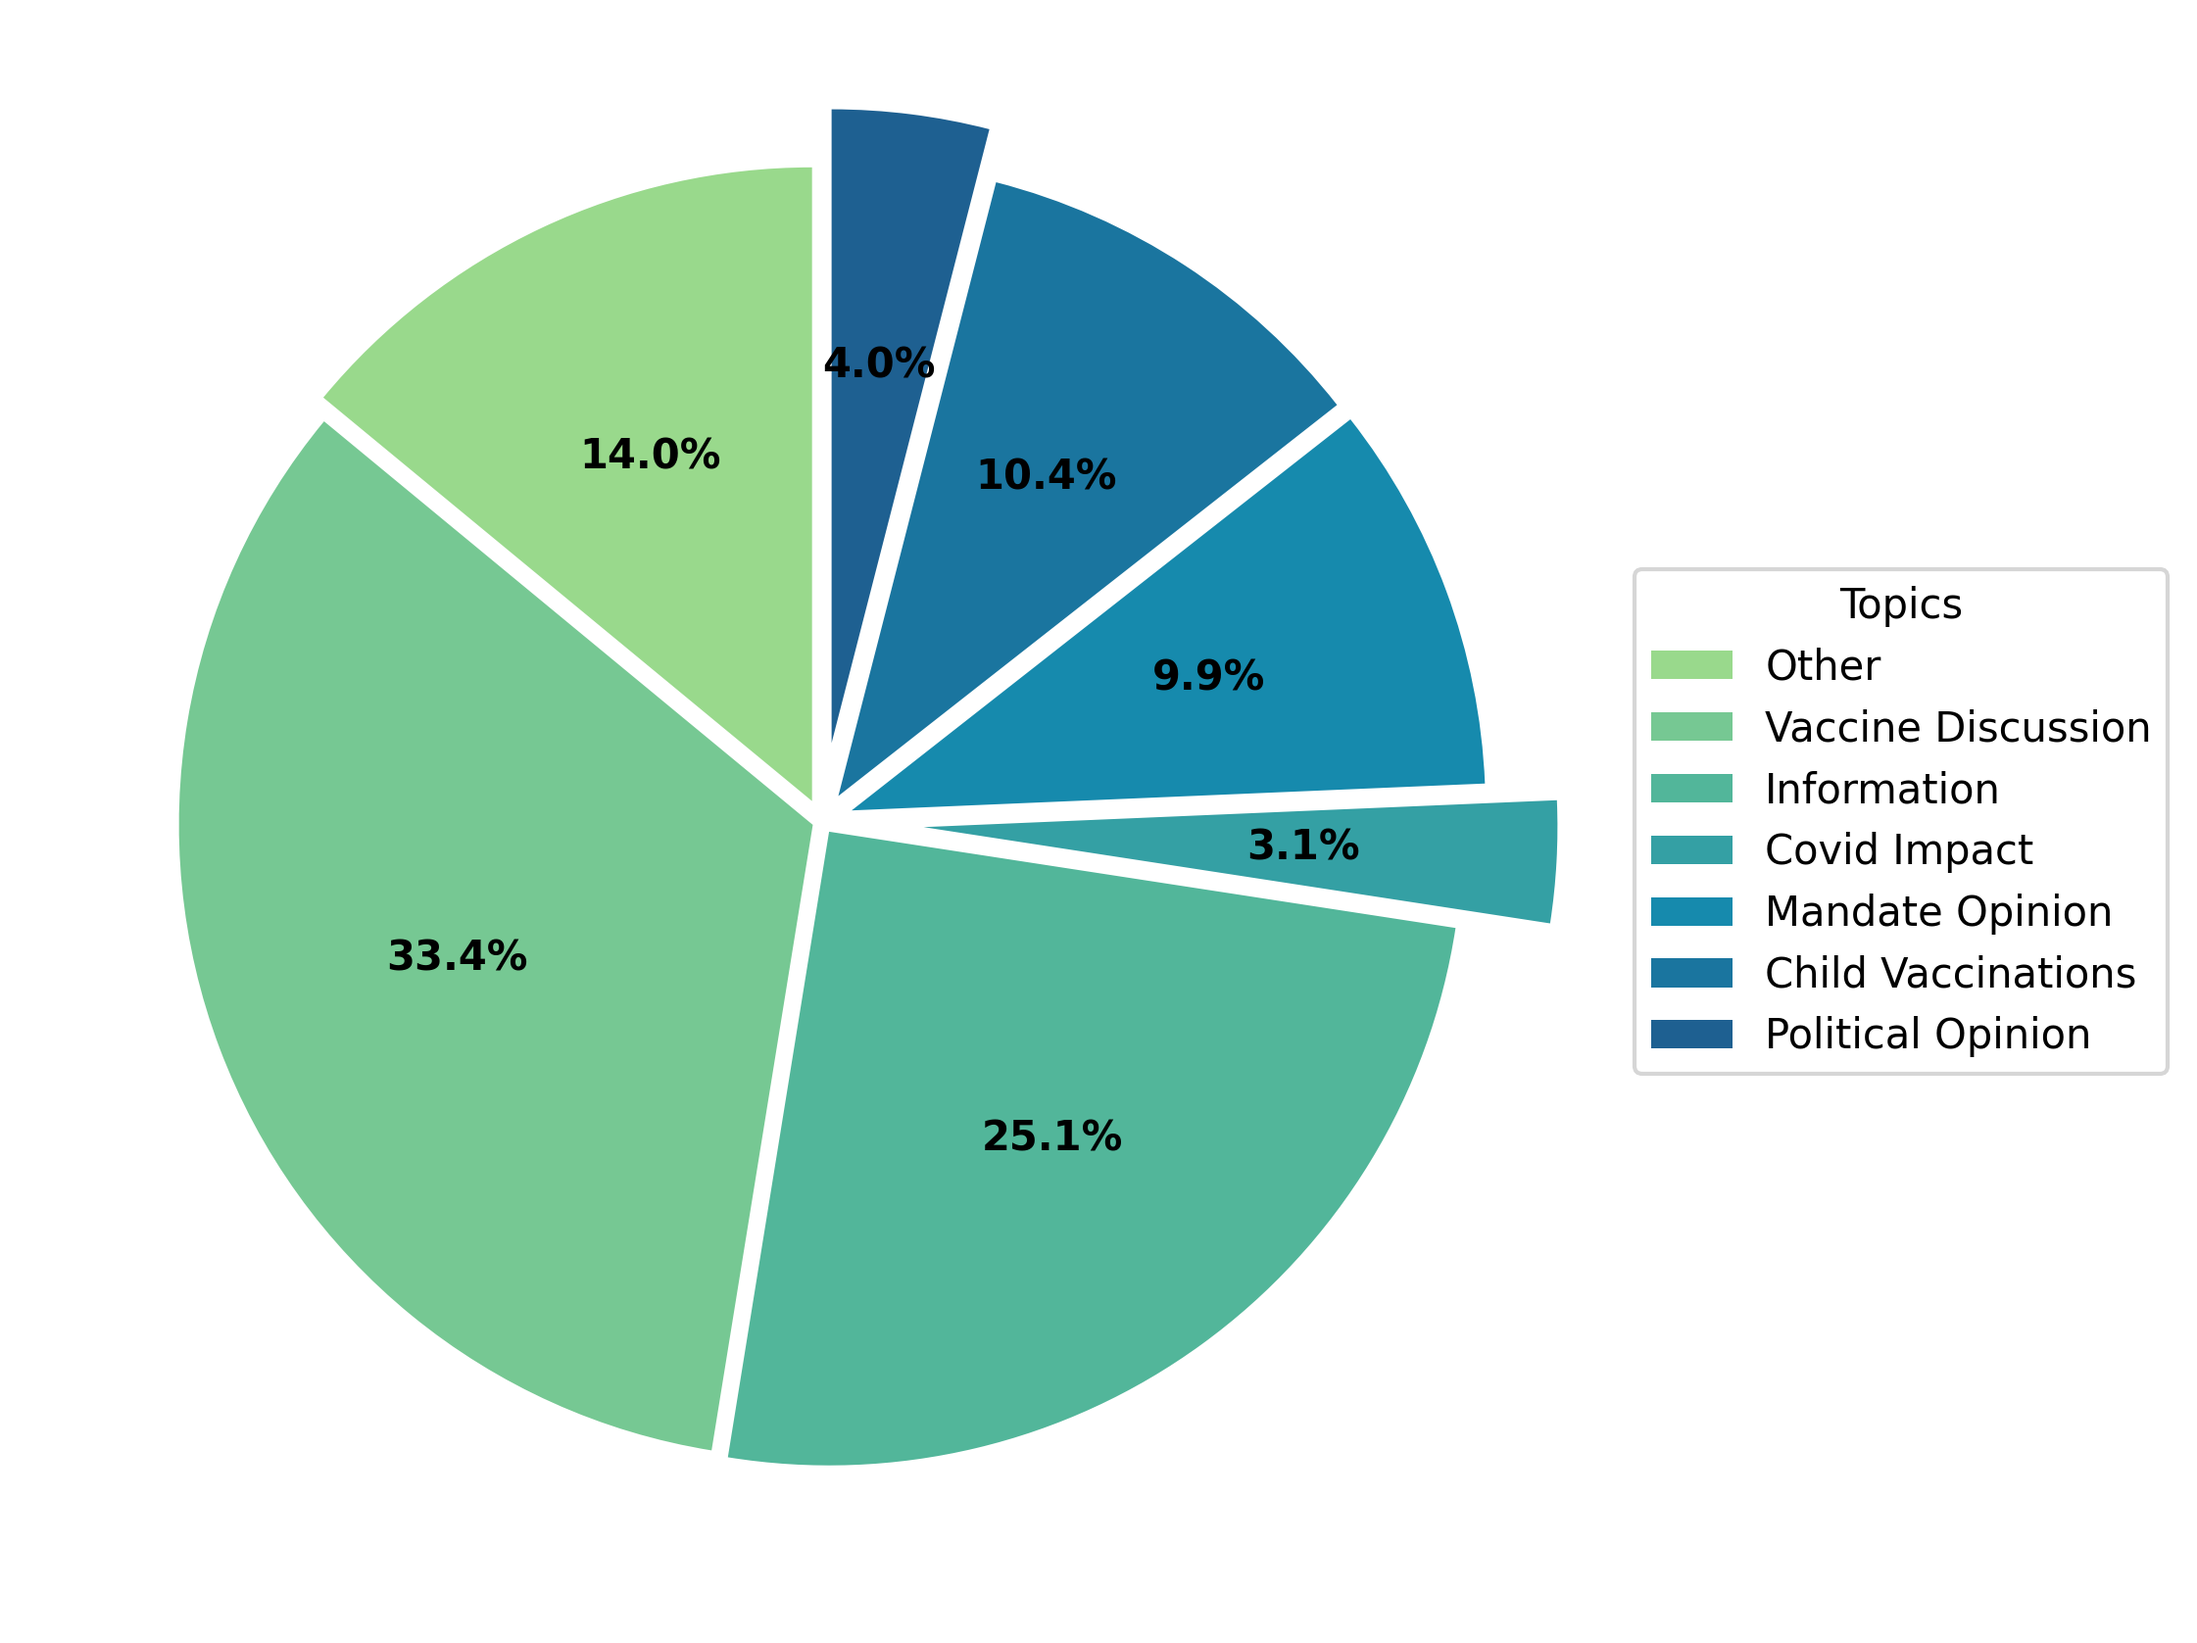
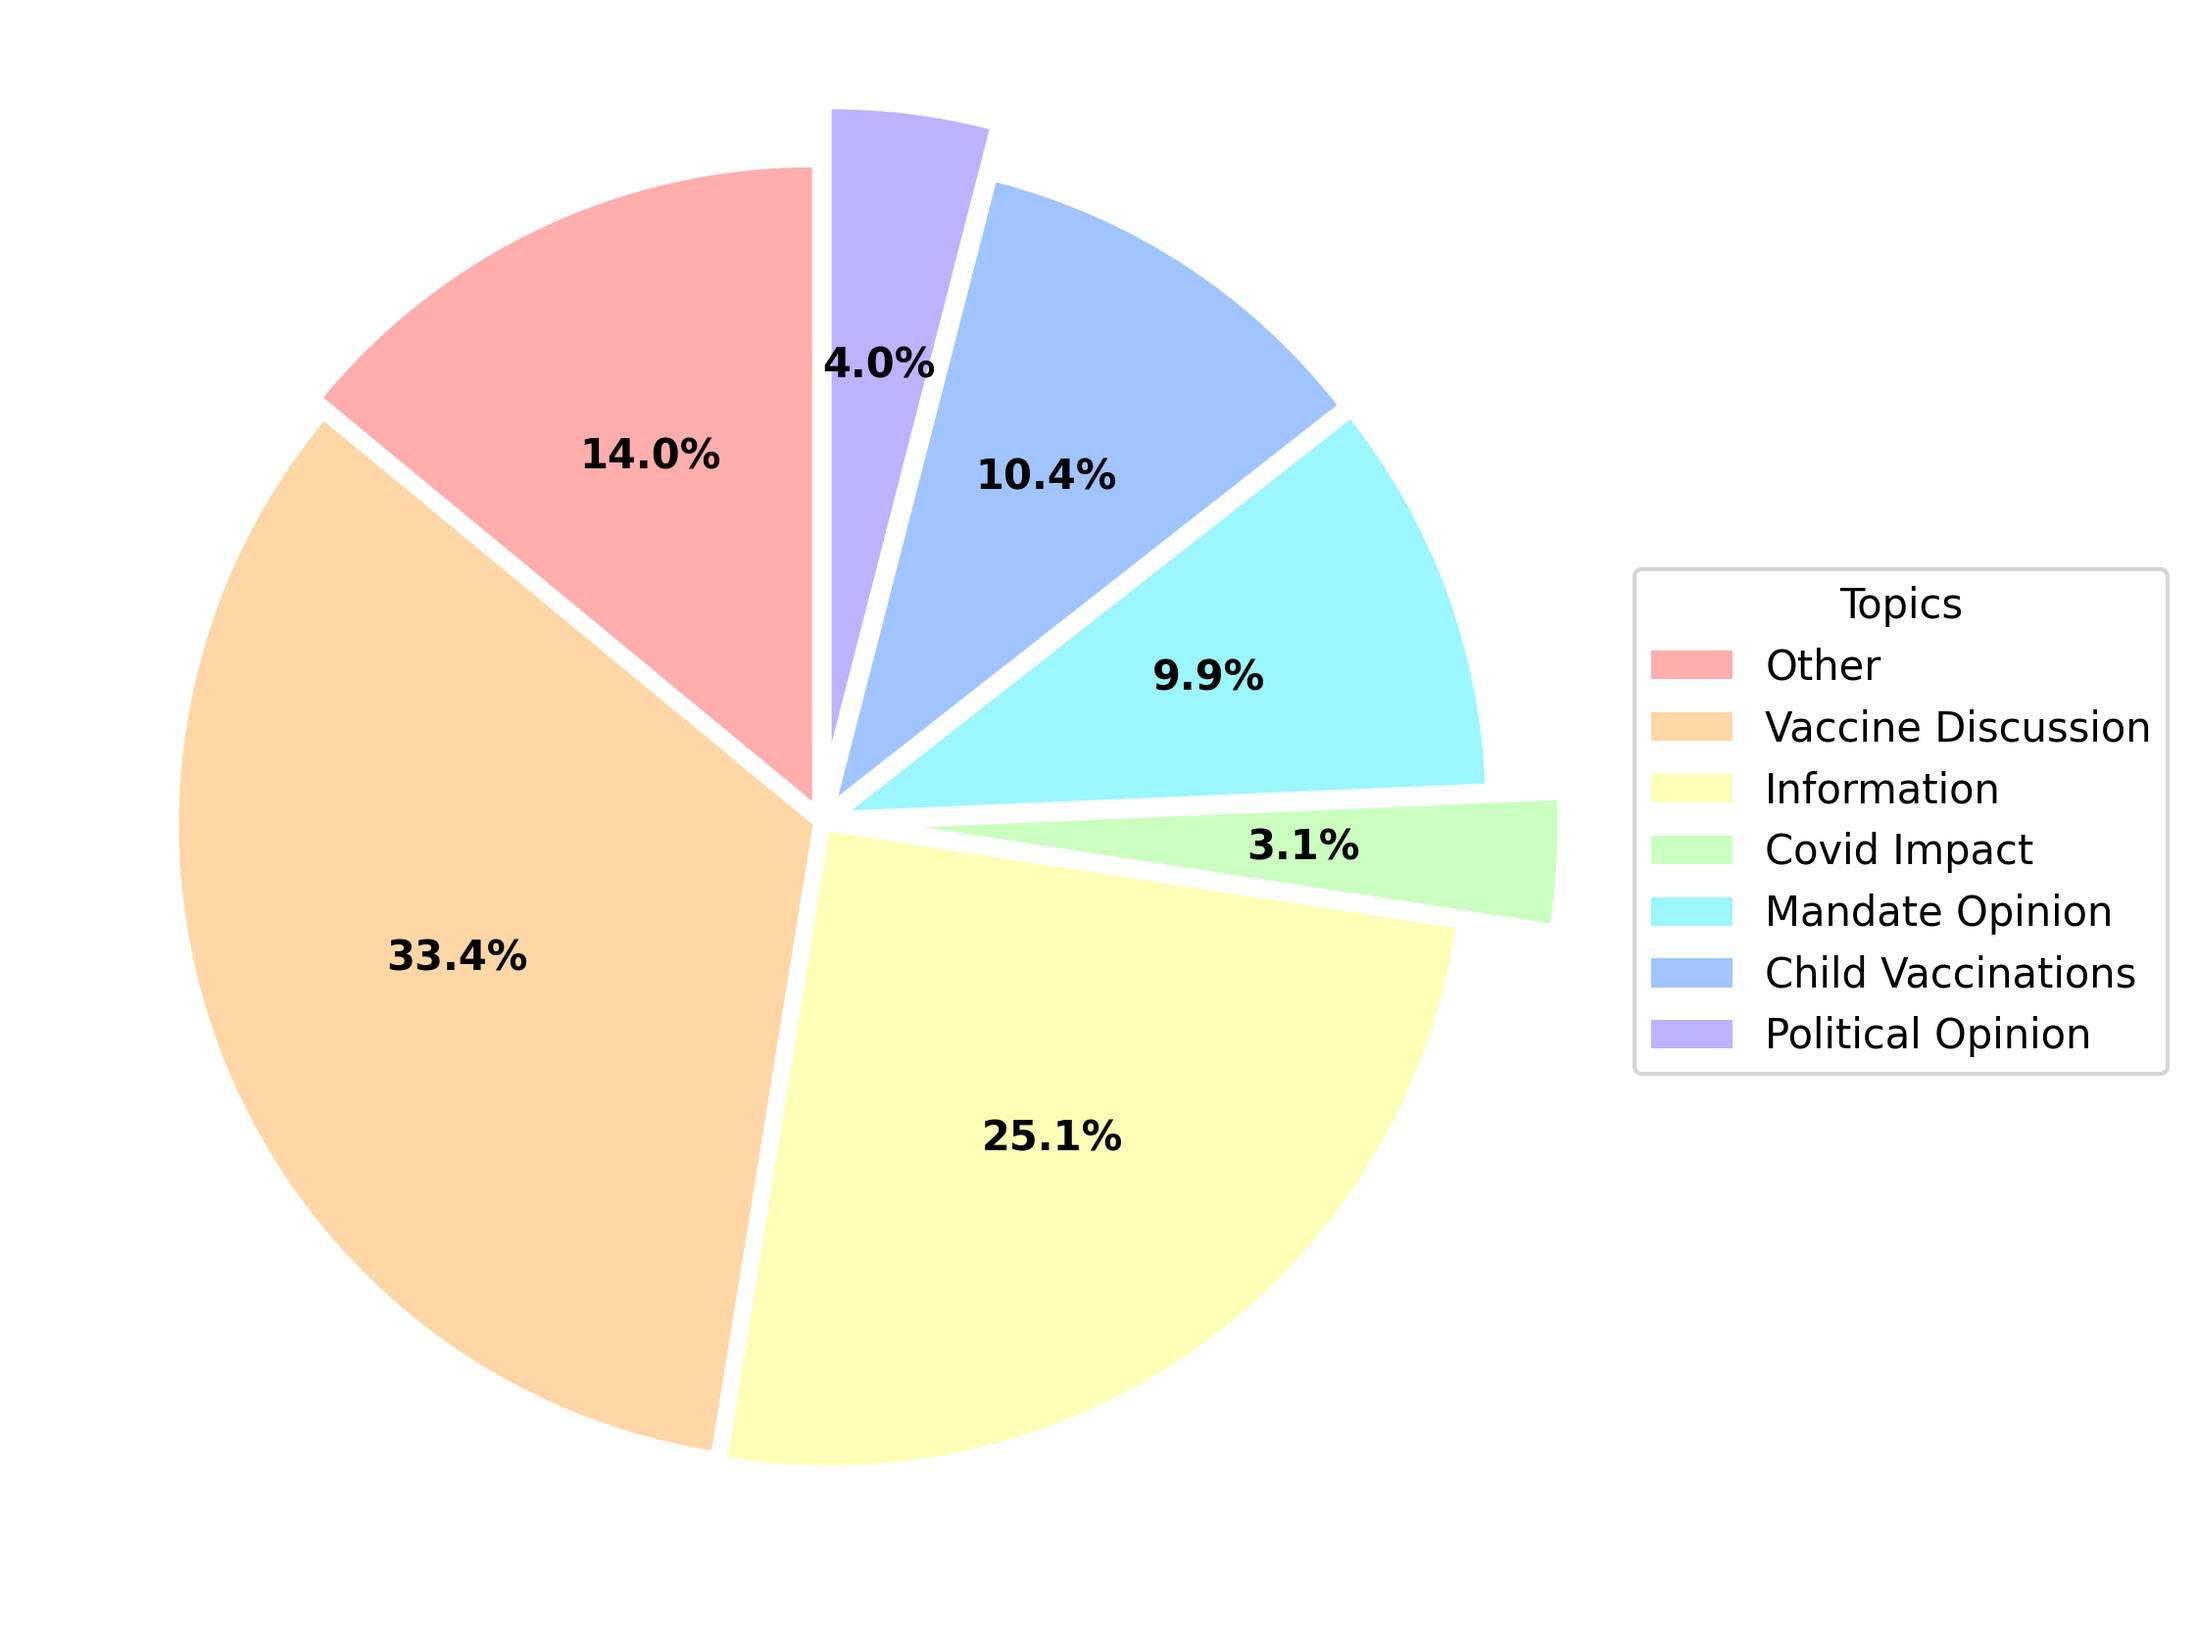
fixed fig colors for readability

diff --git a/src/engagement_analysis.py b/src/engagement_analysis.py
@@ -55,7 +55,7 @@ def plot_engagement(freqs):
     
     # args 
     explode = [(1/freq)*0.005 for freq in y]
-    colors = ('#99d98c', '#76c893', '#52b69a', '#34a0a4', '#168aad', '#1a759f', '#1e6091')
+    colors = ('#FFADAD', '#FFD6A5', '#FDFFB6', '#CAFFBF', '#9BF6FF', '#A0C4FF', '#BDB2FF')
     # Creating autocpt arguments
     def func(pct, allvalues):
         absolute = int(pct/100.*np.sum(allvalues))
